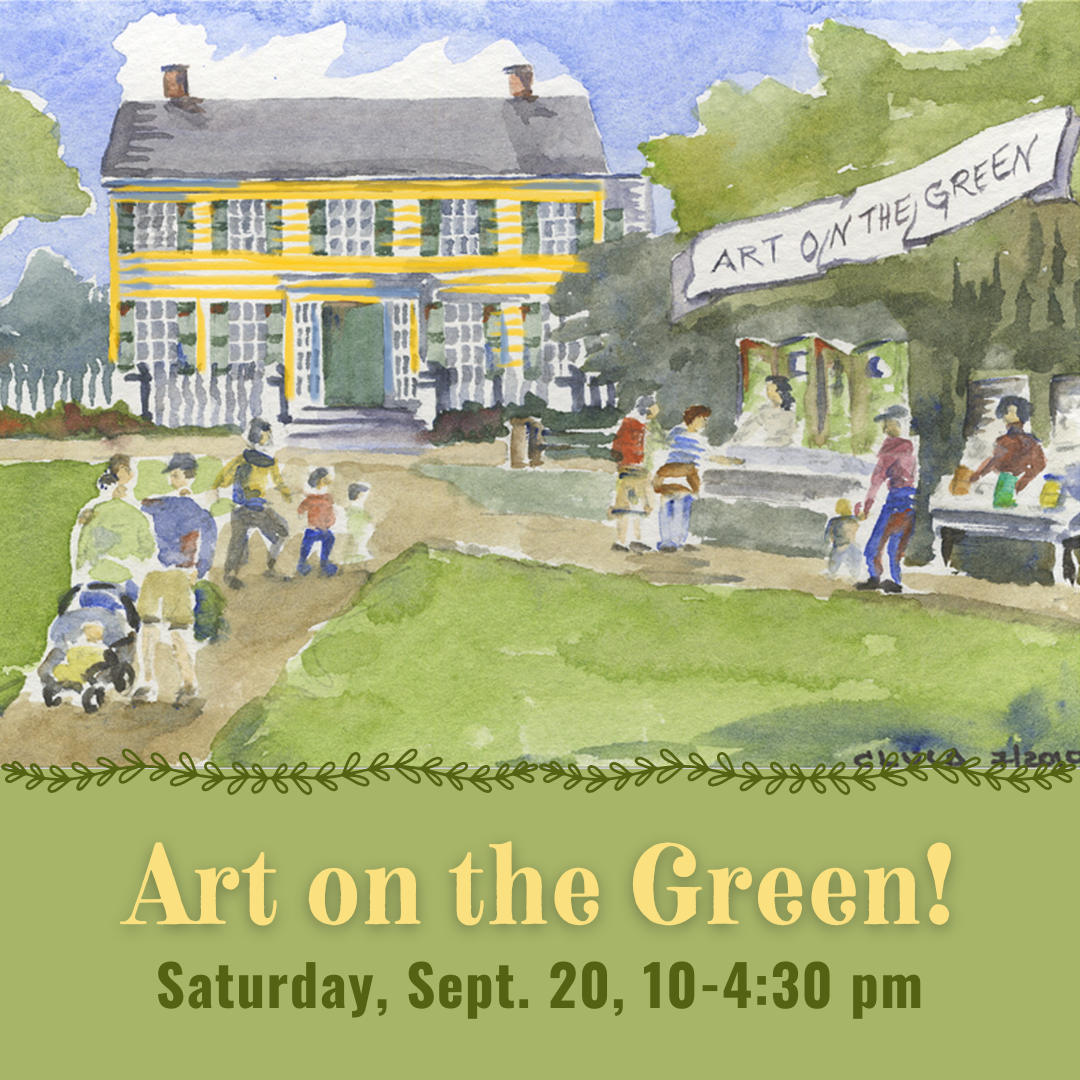
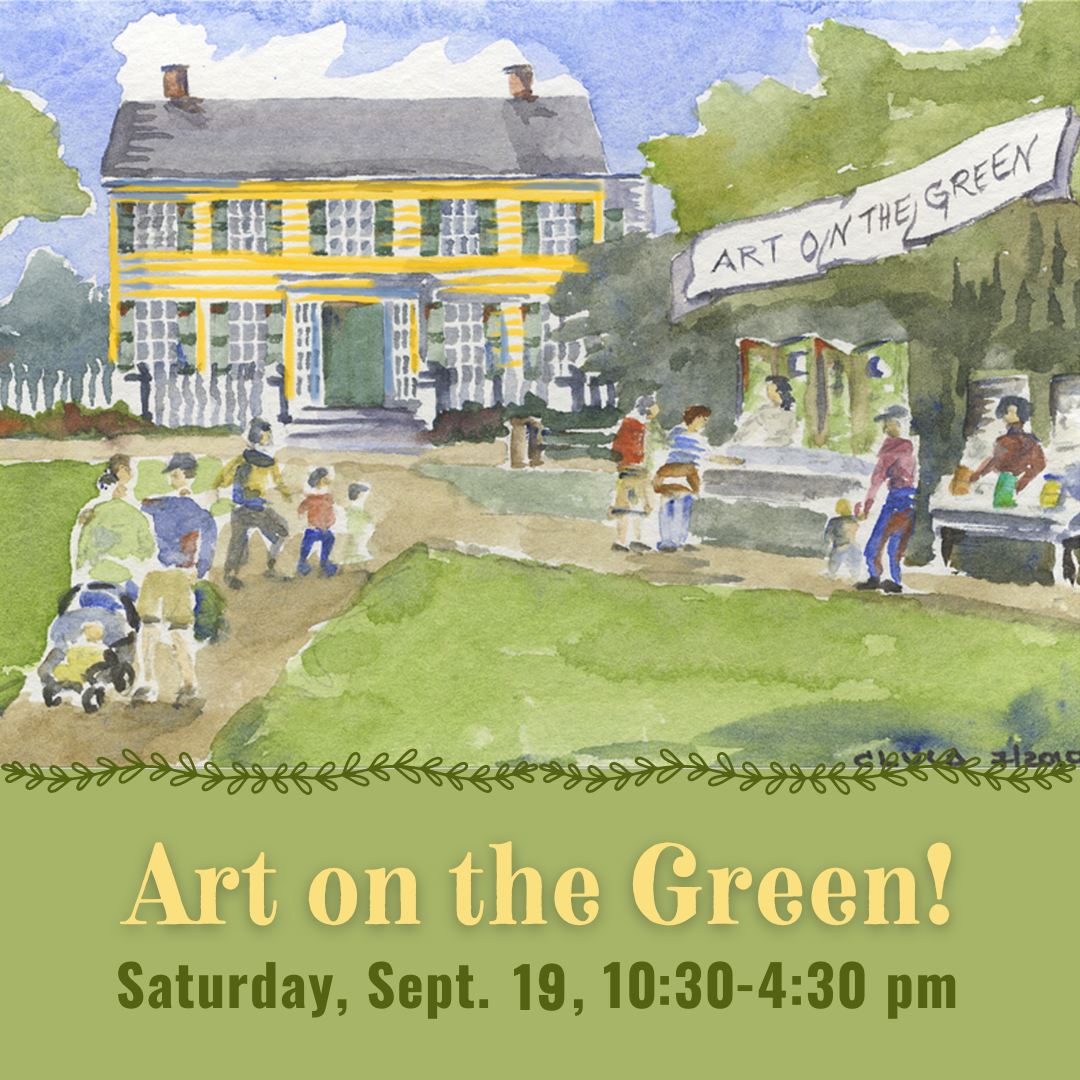
update arlington event

Changed region(s): [[0.0917, 0.8861, 0.8861, 0.9472]]

diff --git a/index.html b/index.html
@@ -880,7 +880,7 @@
             <p>I will be in Breed Hall at Tufts University</p>
           </article>
           <article class="event-slide">
-            <a href="https://yourarlington.com/event/art-on-the-green/" target="_blank" rel="noopener noreferrer">
+            <a href="https://yourarlington.com/event/town-day-2026/" target="_blank" rel="noopener noreferrer">
               <img
                 src="events/arlington2026.png"
                 alt="Arlington Art on the Green 2026 event poster"
